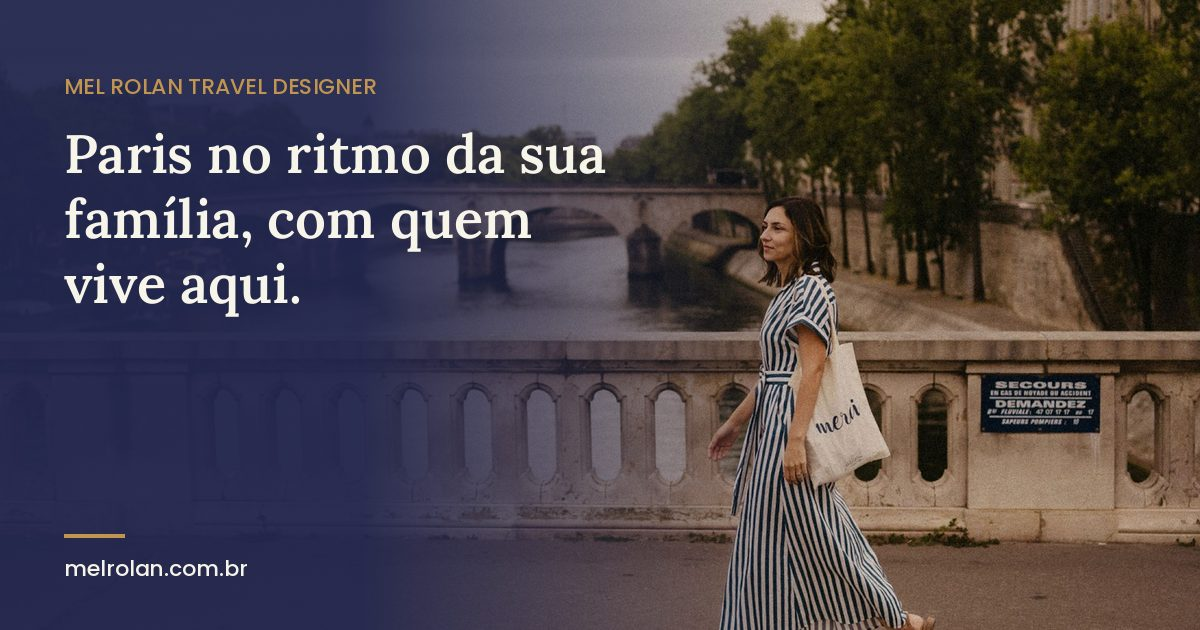
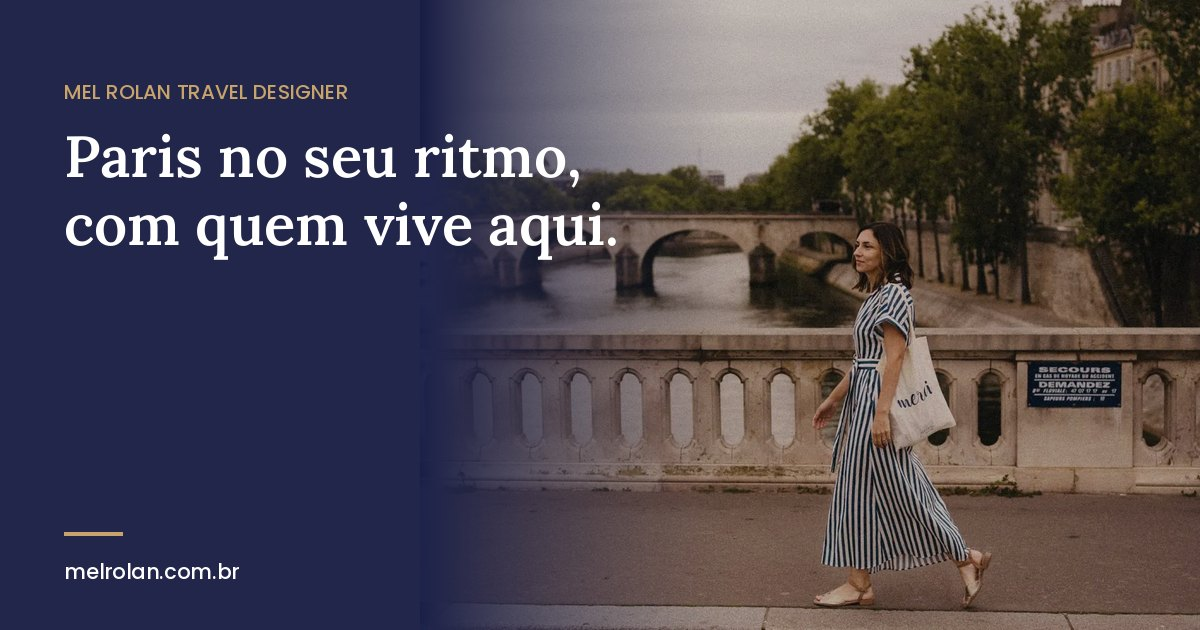
Ajustes finos: título da home, selo de satisfação, consultoria, guias e página Sobre
- Título da home: "Paris no seu ritmo, com quem vive aqui." (e imagem de compartilhamento da home)
- Selo 9,97 de 10 em destaque na seção de depoimentos
- Subtítulo "O mesmo dia, de dois jeitos" com espaço próprio
- Botão da consultoria na home com o mesmo tamanho dos outros
- Consultoria: as 2 etapas centralizadas
- Guias: botões alinhados, descrição do Paris Essencial e meios de pagamento com ícones
- Sobre: dados da empresa só no rodapé
- CSS e JS com versão no endereço, para o navegador não usar cópia antiga

Claude-Session: https://claude.ai/code/session_01LDXZLuV7njeKrcigSoQZSy

diff --git a/public/css/site.css b/public/css/site.css
@@ -180,7 +180,23 @@ th { font-family: var(--serif); background: var(--navy); color: var(--white); fo
 .compare td:last-child { font-weight: 500; }
 .perfil h3 { font-size: 1.15rem; }
 .perfil p:last-child { margin-bottom: 0; }
-.compare-block { max-width: 760px; margin: 48px auto 0; }
+.compare-block { max-width: 760px; margin: 72px auto 0; }
+.compare-title { margin-bottom: 20px; }
+.btn-small { white-space: nowrap; }
+.steps.steps-2 { max-width: 820px; margin-left: auto; margin-right: auto; }
+@media (min-width: 800px) { .steps.steps-2 { grid-template-columns: repeat(2, 1fr); } }
+.selo-wrap { display: flex; flex-direction: column; align-items: center; text-align: center; gap: 20px; max-width: 820px; margin: 0 auto 36px; }
+.selo-wrap h2 { margin-top: 0; }
+.selo-txt { color: var(--muted); margin: 0; }
+.selo { flex: 0 0 auto; width: 148px; height: 148px; border-radius: 50%; background: var(--navy); color: var(--white); display: flex; flex-direction: column; align-items: center; justify-content: center; box-shadow: 0 0 0 6px var(--cream), 0 0 0 8px var(--gold), var(--shadow); }
+.selo-nota { font-family: var(--serif); font-size: 2.6rem; font-weight: 600; line-height: 1; color: var(--gold); }
+.selo-de { font-size: 0.85rem; letter-spacing: 0.1em; text-transform: uppercase; margin-top: 6px; }
+@media (min-width: 760px) { .selo-wrap { flex-direction: row; text-align: left; gap: 36px; } }
+.card-h .card-body { align-self: stretch; }
+.guia-actions { margin-top: auto; padding-top: 8px; }
+.pagamento { list-style: none; display: flex; flex-wrap: wrap; justify-content: center; gap: 12px 28px; margin: 32px auto 0; padding: 0; color: var(--navy); font-size: 0.95rem; font-weight: 500; }
+.pagamento li { display: flex; align-items: center; gap: 8px; }
+.pagamento svg { width: 22px; height: 22px; fill: none; stroke: var(--gold-dark); stroke-width: 1.7; stroke-linecap: round; stroke-linejoin: round; }
 .prices td:last-child { text-align: right; font-weight: 600; white-space: nowrap; }
 .checklist { list-style: none; padding: 0; margin: 24px 0; }
 .checklist li { position: relative; padding-left: 30px; margin-bottom: 12px; }
